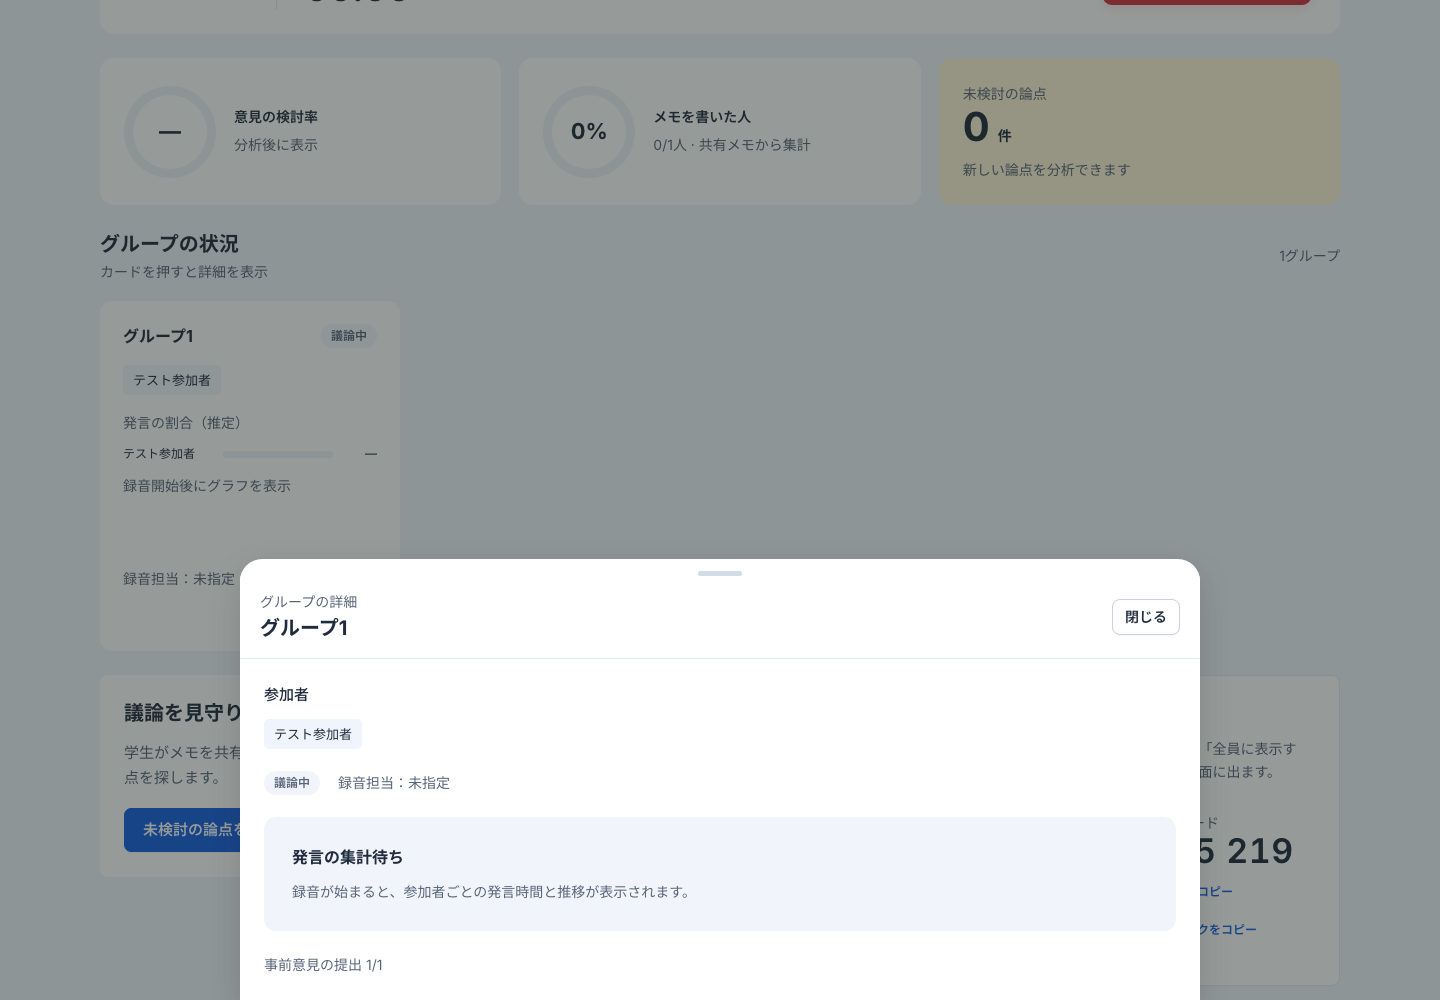
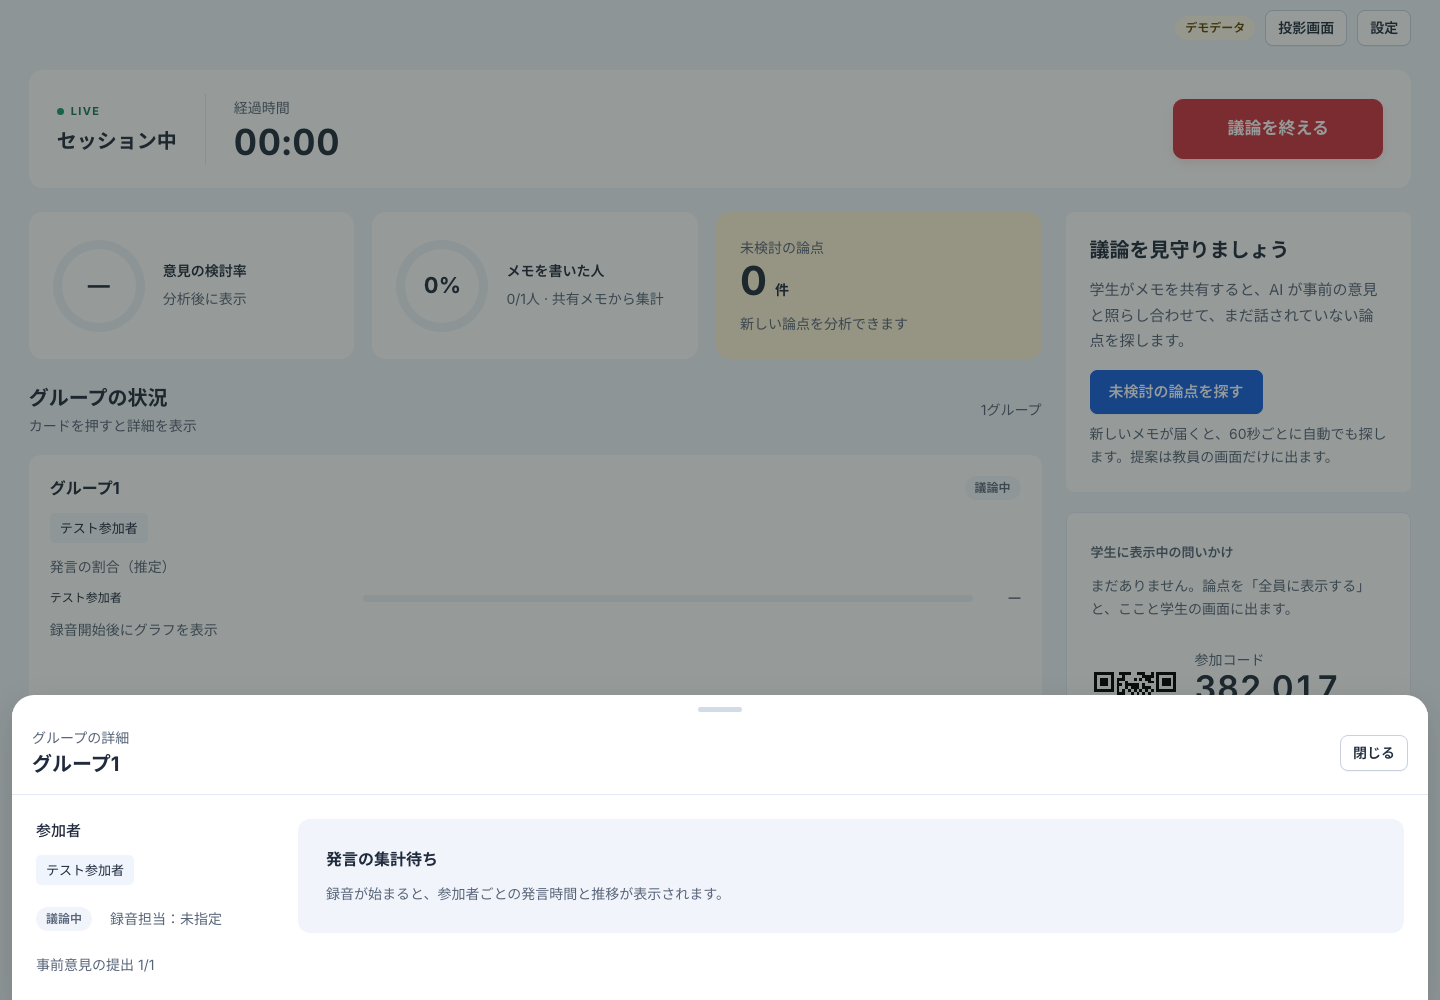
fix(web): 端末幅に合わせてセッションとグラフを拡張

diff --git a/web/src/app/rooms/[roomId]/session.css b/web/src/app/rooms/[roomId]/session.css
@@ -66,7 +66,7 @@
 .session-workspace .next__title { font-size: 20px; }
 .session-workspace .notice { border-radius: 7px; }
 @media (min-width: 900px) {
-  .session-page > .flow:has(.session-discussion), .session-page > .flow:has(.session-comparison) { width: min(1040px, 100%); }
+  .session-page > .flow:has(.session-discussion), .session-page > .flow:has(.session-comparison) { width: 100%; }
   .session-workspace .session-discussion { grid-template-columns: minmax(0, 3fr) minmax(300px, 2fr); grid-template-areas: "talk notes" "record question"; align-items: start; }
   .session-discussion .talk-hero { grid-area: talk; min-height: 330px; justify-content: center; }
   .session-discussion .memo { grid-area: notes; }
@@ -80,9 +80,9 @@
 .session-workspace { position: relative; min-height: 100dvh; background: var(--bg); color: var(--ink); }
 .session-back { position: absolute; top: max(20px, env(safe-area-inset-top)); left: max(20px, env(safe-area-inset-left)); display: grid; place-items: center; width: 44px; height: 44px; color: var(--ink-2); border-radius: 50%; }
 .session-back:hover { background: #e3ebf7; }
-.session-page { width: min(1320px, 100%); margin-inline: auto; padding: 80px 24px 48px; display: flex; flex-direction: column; gap: 24px; }
-.session-page__title { width: min(1040px, 100%); margin-inline: auto; font-size: clamp(22px, 3vw, 32px); line-height: 1.5; }
-.session-page > .flow { width: min(640px, 100%); flex: none; padding: 0; }
+.session-page { width: 100%; margin-inline: auto; padding: 80px clamp(16px, 2vw, 32px) 48px; display: flex; flex-direction: column; gap: 24px; }
+.session-page__title { width: 100%; margin-inline: auto; font-size: clamp(22px, 3vw, 32px); line-height: 1.5; }
+.session-page > .flow { width: min(1040px, 100%); flex: none; padding: 0; }
 .session-actions { display: flex; justify-content: flex-end; align-items: center; flex-wrap: wrap; gap: 10px; }
 .session-theme-hero { display: flex; flex-direction: column; justify-content: center; gap: 20px; min-height: 320px; padding: clamp(28px, 4vw, 52px); background: #bfe6fb; border-radius: 12px; }
 .session-theme-hero h1 { font-size: clamp(28px, 3.5vw, 46px); font-weight: 600; line-height: 1.55; overflow-wrap: anywhere; }
@@ -175,7 +175,7 @@
 .session-finish-dialog__label { color: #b02e39; font-size: 13px; font-weight: 600; }
 .session-finish-dialog__actions { display: flex; flex-wrap: wrap; gap: 12px; margin-top: 8px; }
 .session-finish-dialog__actions > .btn { flex: 1; }
-.dialog.session-group-sheet { position: fixed; inset: auto 0 0; width: min(960px, 100%); max-width: 100%; max-height: 88dvh; margin: 0 auto; padding-bottom: env(safe-area-inset-bottom); border-radius: 22px 22px 0 0; overscroll-behavior: contain; }
+.dialog.session-group-sheet { position: fixed; inset: auto 0 0; width: calc(100% - 24px); max-width: 100%; max-height: calc(100dvh - 12px); margin: 0 auto; padding-bottom: env(safe-area-inset-bottom); border-radius: 22px 22px 0 0; overscroll-behavior: contain; }
 .session-group-sheet[open] { animation: session-sheet-in .24s ease-out; }
 .session-group-sheet__handle { width: 44px; height: 5px; margin: 12px auto 0; border-radius: 6px; background: #d2dbe8; }
 .session-group-sheet__body { display: grid; gap: 22px; padding: 24px; }
@@ -207,5 +207,39 @@
   .session-group-card__open, .dashboard-speech__track > span { transition: none; }
 }
 
-.session-workspace[data-active] .session-page__title { width: 100%; display: flex; align-items: center; min-height: 220px; padding: clamp(28px, 4vw, 48px); background: #bfe6fb; border-radius: 12px; font-size: clamp(28px, 3.5vw, 46px); font-weight: 600; line-height: 1.55; overflow-wrap: anywhere; }
+.session-workspace[data-active] .session-page__title { width: 100%; display: flex; align-items: center; min-height: clamp(128px, 14dvh, 180px); padding: clamp(24px, 3dvh, 40px) clamp(28px, 3vw, 48px); background: #bfe6fb; border-radius: 12px; font-size: clamp(28px, 3.5vw, 46px); font-weight: 600; line-height: 1.55; overflow-wrap: anywhere; }
 @media (max-width: 600px) { .session-workspace[data-active] .session-page__title { min-height: 180px; padding: 28px; } }
+
+
+/* セッションの作業領域は端末幅を使い、待機カードだけは小さな固定幅を保つ。 */
+.session-workspace .teacher__body { width: 100%; max-width: none; margin-inline: 0; min-width: 0; }
+.session-groups[data-dashboard] .session-group-grid { display: grid; grid-template-columns: repeat(auto-fit, minmax(min(100%, 280px), 1fr)); }
+.session-groups[data-dashboard] .session-group-card { width: auto; max-width: none; min-width: 0; }
+.session-groups[data-dashboard] .session-group-card__open { gap: 12px; padding: 20px; }
+.session-groups[data-dashboard] .dashboard-speech__row { grid-template-columns: minmax(80px, 1fr) minmax(64px, 2fr) 40px; }
+.session-group-sheet .dialog__head { position: sticky; top: 0; z-index: 2; background: var(--surface); }
+.session-group-sheet__body > * { min-width: 0; }
+@media (min-width: 1100px) {
+  .session-group-sheet__body { grid-template-columns: 240px minmax(0, 1fr); grid-template-rows: auto auto 1fr; align-items: start; }
+  .session-group-sheet__body > section:first-child { grid-column: 1; grid-row: 1; }
+  .session-group-sheet__status { grid-column: 1; grid-row: 2; }
+  .session-group-sheet__body > .speaking-rates, .session-group-sheet__empty { grid-column: 2; grid-row: 1 / span 3; }
+  .session-group-sheet__body > p:last-child { grid-column: 1; grid-row: 3; }
+  .session-group-sheet .speaking-rates__content { display: grid; grid-template-columns: minmax(220px, 1fr) minmax(0, 2fr); align-items: start; gap: 28px; }
+  .session-group-sheet .speaking-rates__content > * { min-width: 0; }
+  .session-material-viewer { width: calc(100% - 32px); }
+  .session-material-viewer iframe { height: 78dvh; }
+}
+@media (min-width: 1440px) {
+  .session-workspace .teacher__body.live { display: grid; grid-template-columns: minmax(0, 1fr) clamp(320px, 24vw, 420px); grid-template-areas: "controls controls" "metrics support" "groups support" "materials support"; grid-template-rows: auto auto auto 1fr; align-items: start; gap: 24px; }
+  .teacher__body.live > .dashboard-session { grid-area: controls; }
+  .teacher__body.live > .dashboard-metrics { grid-area: metrics; }
+  .teacher__body.live > .session-groups { grid-area: groups; }
+  .teacher__body.live > .live-grid { grid-area: support; display: flex; flex-direction: column; gap: 20px; min-width: 0; }
+  .teacher__body.live > .live-grid > * { width: 100%; min-width: 0; }
+  .teacher__body.live > .session-materials { grid-area: materials; }
+}
+@media (max-width: 600px) {
+  .dialog.session-group-sheet { width: 100%; }
+  .session-groups[data-dashboard] .session-group-card__open { min-height: 320px; }
+}

diff --git a/web/src/components/Speaking.tsx b/web/src/components/Speaking.tsx
@@ -26,14 +26,17 @@ function SelfSpeakingRates({ state }: { state: SelfSpeaking }) {
 }
 export function SpeakingRates({ state }: { state: SpeakingState }) {
   const total = Object.values(state.talkMs).reduce((a, b) => a + b, 0) + state.unknownMs;
-  return <section className="box pad stack" aria-label={`グループ${state.group}の発言時間`}>
+  return <section className="box pad stack speaking-rates" aria-label={`グループ${state.group}の発言時間`}>
     <h3>グループ{state.group}の発言時間（推定）</h3>
     {state.source === 'model' && <p className="t-note">実音声モデルで照合しています。</p>}
     {state.source === 'mock' && <p>音声モックのテスト表示です。実際の声は識別していません。</p>}
+    <div className="stack speaking-rates__content"><div className="stack speaking-rates__values">
     <p>直近の発言者：{state.latest?.label ?? '発話なし'}</p>
     {state.members.map((m) => <div key={m.uid}><span>{m.label}：{((state.talkMs[m.uid] ?? 0) / 1000).toFixed(1)}秒 · {total ? `${Math.round((state.talkMs[m.uid] ?? 0) / total * 100)}%` : 'データなし'}</span><progress aria-label={`${m.label}の発言率`} value={state.talkMs[m.uid] ?? 0} max={total || 1} /></div>)}
     <p>判別不能：{(state.unknownMs / 1000).toFixed(1)}秒</p>
+    </div>
     {state.timeline && <SpeakingTimeline timeline={state.timeline} members={state.members} processedMs={state.processedMs} />}
+    </div>
     <p className="t-note">無音を除いた発話時間からの推定です。短い相づちや同時発話は誤判別し得ます。能力・意欲の評価には使用しません。</p>
   </section>;
 }

diff --git a/web/e2e/dashboard-demo.spec.ts b/web/e2e/dashboard-demo.spec.ts
@@ -2,9 +2,18 @@ import { expect, test, type Page } from "@playwright/test";
 import { seedDashboardDemo } from "../../firebase/dashboard-demo.mjs";
 
 async function capture(page: Page, scene: string, fullPage = true) {
-  for (const [label, width, height] of [["mobile", 390, 844], ["tablet", 820, 1180], ["desktop", 1440, 1000]] as const) {
+  for (const [label, width, height] of [["small-phone", 320, 740], ["mobile", 390, 844], ["tablet", 820, 1180], ["tablet-landscape", 1024, 768], ["laptop", 1280, 800], ["desktop", 1440, 1000], ["wide", 1920, 1080], ["ultrawide", 2560, 1440]] as const) {
     await page.setViewportSize({ width, height });
     await expect.poll(() => page.evaluate(() => document.documentElement.scrollWidth <= innerWidth)).toBe(true);
+    if (width >= 1280) {
+      const layout = fullPage ? page.locator(".teacher__body.live") : page.getByRole("dialog", { name: "グループ2", exact: true });
+      const box = await layout.boundingBox();
+      expect(box!.width).toBeGreaterThan(width * .9);
+    }
+    if (!fullPage) {
+      const plot = page.locator('.session-group-sheet .speak-chart__plot > svg[role="img"]');
+      await expect.poll(() => plot.evaluate(el => Math.abs(Number(el.getAttribute("width")) - el.parentElement!.clientWidth))).toBeLessThanOrEqual(2);
+    }
     await page.screenshot({ path: `../docs/screenshots/session-host-demo-${scene}-${label}.png`, fullPage, animations: "disabled", scale: "css" });
   }
 }

diff --git a/web/src/components/host/SessionGroups.tsx b/web/src/components/host/SessionGroups.tsx
@@ -20,7 +20,7 @@ export function SessionGroups({ roomId, room, members, dashboard = false }: { ro
   }
   const current = selected != null ? groupData(selected) : undefined;
   const names = (people: { id: string; displayName: string }[]) => <div className="session-group-card__people" aria-label="参加者名">{people.length ? people.map(p => <span key={p.id}>{p.displayName}</span>) : <p className="t-note">参加を待っています</p>}</div>;
-  return <section className="session-groups" aria-labelledby="session-groups-title">
+  return <section className="session-groups" data-dashboard={dashboard || undefined} aria-labelledby="session-groups-title">
     <div className="heading-row"><div><h2 id="session-groups-title" className="t-md">グループの状況</h2>{dashboard && <p className="t-note">カードを押すと詳細を表示</p>}</div><span className="t-note">{room.groups ?? 1}グループ</span></div>
     <div className="session-group-grid">
       {Array.from({ length: room.groups ?? 1 }, (_, i) => i + 1).map(group => {

diff --git a/web/src/components/SpeakingTimeline.tsx b/web/src/components/SpeakingTimeline.tsx
@@ -10,7 +10,6 @@ export interface SpeakingMinute { talkMs: Record<string, number>; unknownMs: num
  */
 const COLORS = ["#2a78d6", "#eb6834", "#1baf7a", "#eda100", "#e87ba4", "#008300", "#6250d6", "#e34948"];
 const UNKNOWN = "#8f8e89";
-const H = 220;
 
 interface Series { id: string; label: string; color: string; dashed?: boolean; values: number[] }
 
@@ -21,6 +20,7 @@ export function SpeakingTimeline({ timeline, members, processedMs, self = false 
 }) {
   const box = useRef<HTMLDivElement>(null);
   const [width, setWidth] = useState(560);
+  const H = Math.round(Math.max(220, Math.min(360, width * .35)));
   const [active, setActive] = useState<number | null>(null);
   // グラフは録音が2分を超えてから描くので、描いた時点で幅の監視を始める（最初から開いている画面でも幅を合わせる）
   const shown = timeline.length >= 2;
